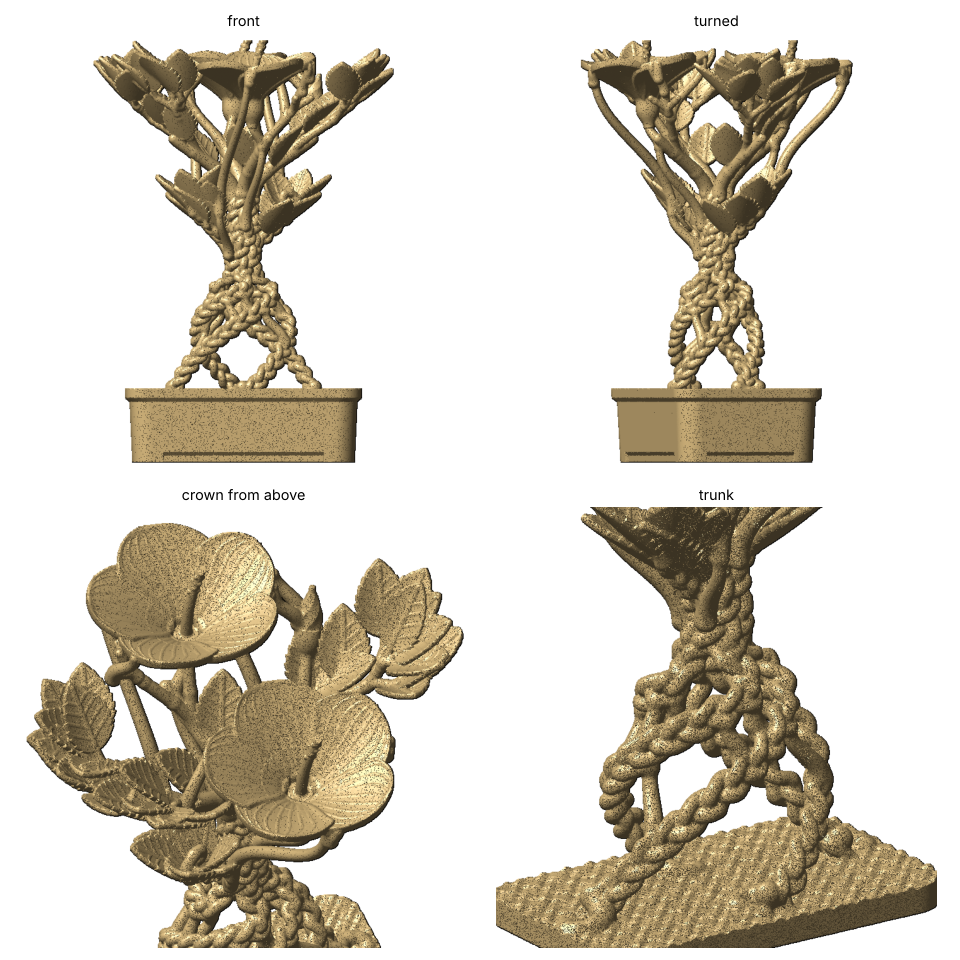
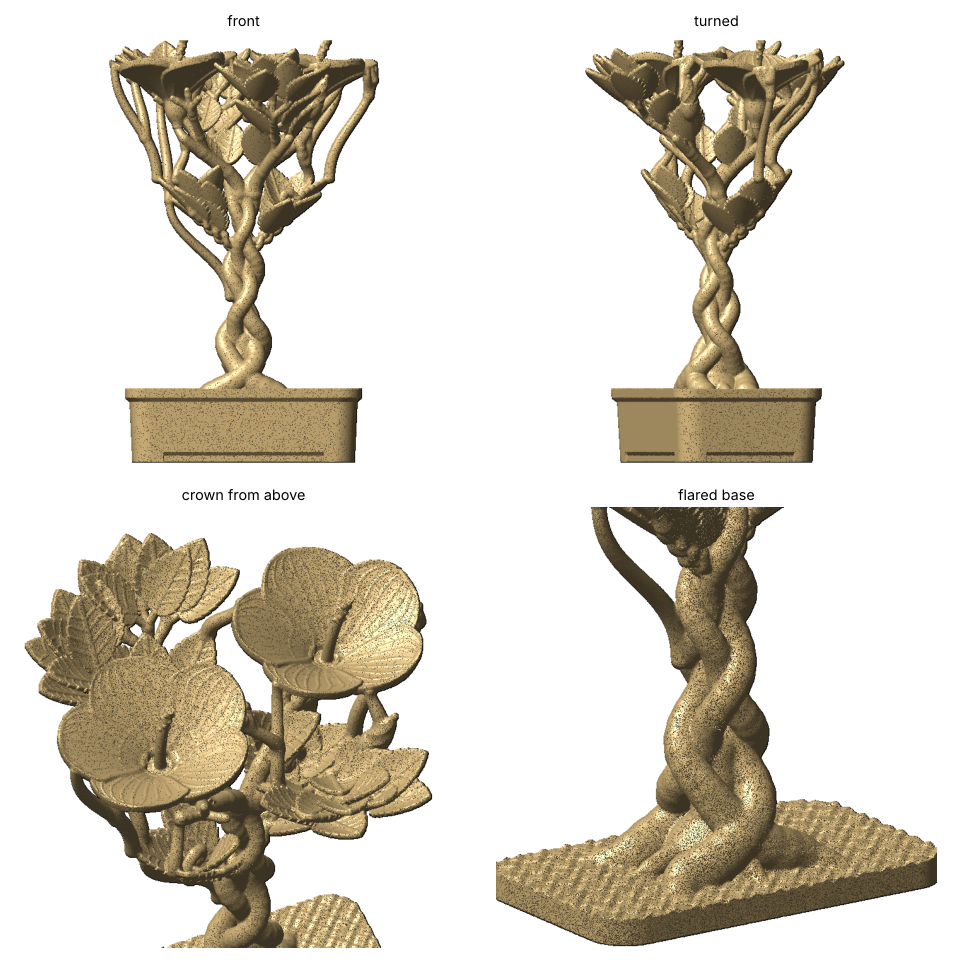
Hibiscus bonsai: final build with braided trunk and flared base; README, preview, stems
Claude-Session: https://claude.ai/code/session_017ftLatXiQgThsoC1M9thCT

diff --git a/3d-prints/hibiscus-bonsai/README.md b/3d-prints/hibiscus-bonsai/README.md
@@ -5,19 +5,21 @@ A braided hibiscus bonsai, about 120 mm tall in its pot. It has two parts, and b
 | File | What it is |
 |---|---|
 | `bonsai_hibiscus.py` | The generator: tree and pot. `--preview` skips support planning. |
-| `final_stems.pkl` | The 35 print stems in the approved final build. These are the planner's stems plus repair stems added after the full-resolution check. |
+| `final_stems.pkl` | The 26 print stems in the approved final build. These are the planner's stems plus repair stems added after the full-resolution check. |
 | `preview.png` | Renders of the final build. |
 
 ## Design
-- **Trunk:** four cords, each a three-strand plait. They rise from flat golden curls on the soil plug and spiral in as a golden vortex, like the plumeria body's base. They meet at the golden height and twist together, four into one, up to the crown.
-- **Crown:** the four cords part into four branches, each forking into two twigs.
-- **Middle tier:** sweeps out both ways as plaits that roll into question-mark curls, with leaves.
+- **Trunk (`TRUNK_STYLE = "braid"`):** four smooth stems woven over and under like a braided hibiscus standard, with two winding each way and one turn per 42 mm. The trunk tapers about 40% to the crown.
+- **Base:** near the soil the stems spread into a flared base, standing out as buttresses, and run on as roots that dive into the soil. Four smaller roots run between them.
+- **Rope style (`"rope"`):** the earlier version. Four plaited cords spiral up from golden curls on the soil.
+- **Crown:** the four stems part into four branches spaced evenly, each forking into two twigs.
+- **Middle tier:** plaited arms roll into question-mark curls, with leaves.
 - **Flowers:** two open hibiscus, about 40 mm across, on opposite sides of the crown. They have solid ruffled petals with raised veins and an eye ridge, plus an anther column and stigma pads. A twisted bud sits on another twig.
-- **Leaves:** 51 serrated hibiscus leaves. Any leaf that would pass through a flower is dropped.
+- **Leaves:** 53 serrated hibiscus leaves. A leaf that would pass through a flower is swung clear, or dropped if it can't be.
 - **Pot:** a tapered rectangle with a lip, corner feet and two drain holes. The soil plug rests on a 45-degree ledge with 0.3 mm clearance.
 
 ## Printability
 - **Supports:** none needed. Leaf stalks run straight into their twigs. Petal ruffles stay in the outline and fade out at the tips, because height ruffles made dips. Flowers lean only 8 degrees.
 - **Print stems:** anything still starting in mid-air gets a slim stem. A stem may only take a path that is clear of other parts.
-- **Final check:** at 0.05 mm layers, the tree took three repair rounds (13, then 2, then 1, then 0 islands). The lighter copy (0.015 mm simplification, about 1.08M faces) and the pot also check clean.
+- **Final check:** at 0.05 mm layers, the tree took repair rounds from 3 islands to 2, 1, then 0. The lighter copy (0.015 mm simplification, about 0.9M faces) and the pot also check clean.
 - **Memory:** a full 0.12 mm build uses about 14 GB. Run each repair round in its own process.
